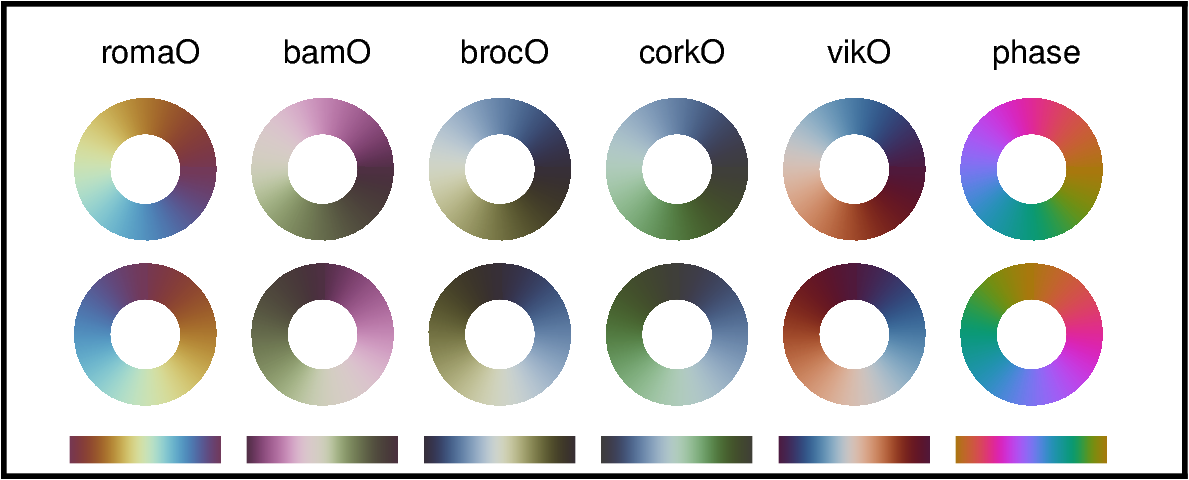
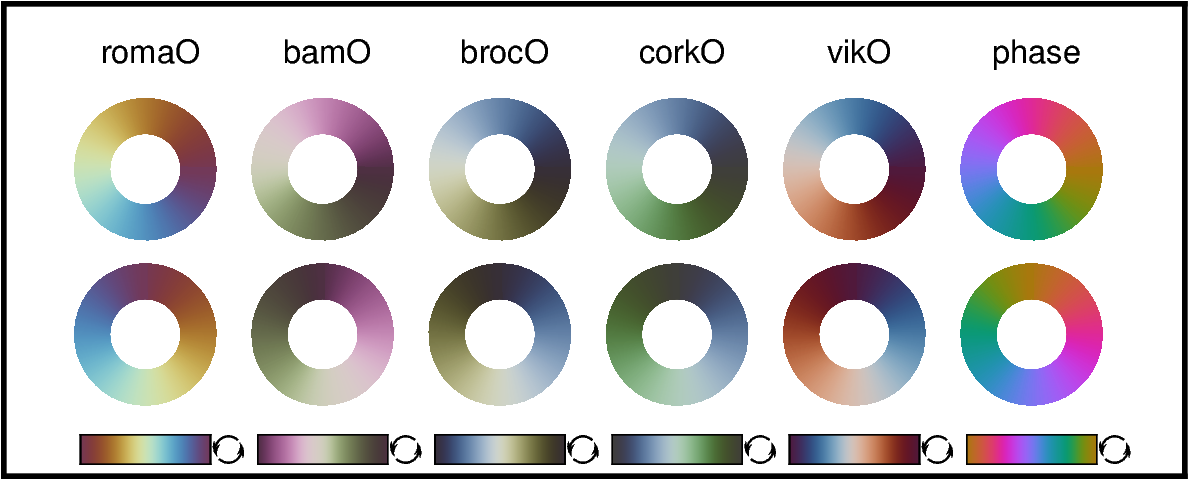
Adjust code regarding config

Changed region(s): [[0.0311, 0.9062, 0.9647, 0.9688]]

diff --git a/000_general_stuff/02_colorwheel/colorwheel_pygmt.py b/000_general_stuff/02_colorwheel/colorwheel_pygmt.py
@@ -50,22 +50,22 @@ def colorwheel(cmap, perspective, rho_min=1, rho_max=2.5, fig_instance=None):
     # -------------------------------------------------------------------------
     # Create colorwheel plot
     # -------------------------------------------------------------------------
-    fig = pygmt.Figure()
     if fig_instance != None:
         fig = fig_instance
+    else:
+        fig = pygmt.Figure()
 
-    pygmt.config(
+    with pygmt.config(
         PS_PAGE_COLOR="white@1", # Make area outside of plot transparent
         MAP_FRAME_PEN="white", # Make frame outline white
-    )
-
-    fig.basemap(
-        region=[0, 360, 0, rho_max],
-        # Use geographic azimuth instead of standard angle -> backazimuth
-        # Go clockwise from North instead of counter-clockwise from East
-        projection=f"P{rho_max * 2}c+a",
-        frame="rltb",
-    )
+    ):
+        fig.basemap(
+            region=[0, 360, 0, rho_max],
+            # Use geographic azimuth instead of standard angle -> backazimuth
+            # Go clockwise from North instead of counter-clockwise from East
+            projection=f"P{rho_max * 2}c+a",
+            frame="rltb",
+        )
 
     # Create colormap for direction (backazimuth)
     pygmt.makecpt(cmap=cmap, cyclic=True, series=[0, 360, 1])
@@ -110,7 +110,7 @@ for cmap in ["romaO", "bamO", "brocO", "corkO", "vikO", "phase"]:
     )
     fig.text(x=1, y=2.4, text=cmap, no_clip=True)
     pygmt.makecpt(cmap=cmap, series=[0, 360], cyclic=True)
-    fig.colorbar(cmap=True, position="jBC+o0c/-0.5c+w1.3c/0.25c+h", frame=0)
+    fig.colorbar(cmap=True, position="jBC+o0c/-0.5c+w1.1c/0.25c+h", frame=0)
     fig.shift_origin(xshift="1.5c", yshift="1.4c")
 
 fig.show()
